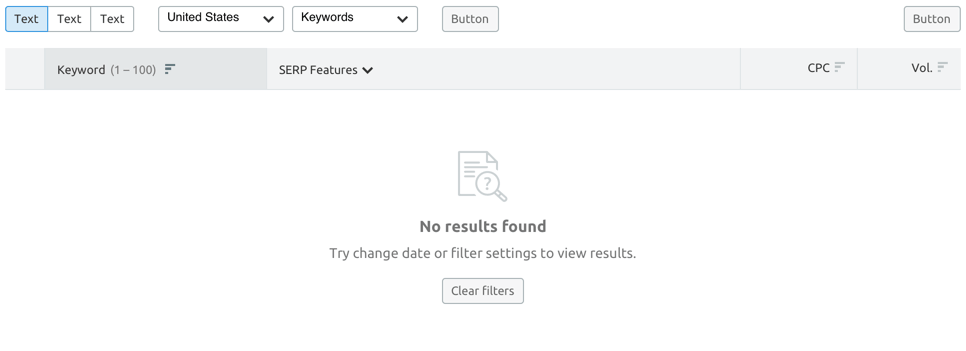
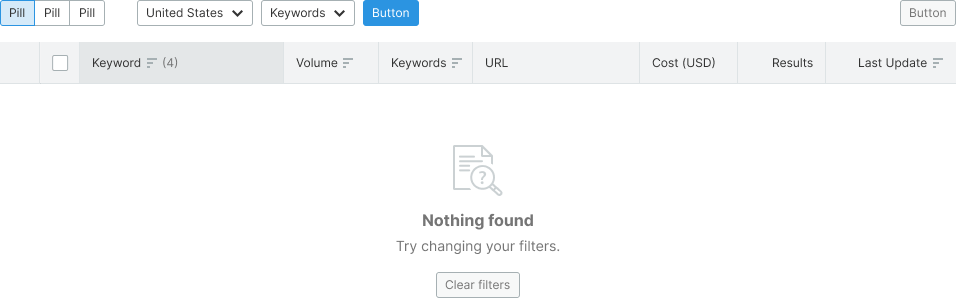
[WidgetEmpty, Table states] Update message for Nothing found state

diff --git a/website/docs/components/widget-empty/examples/no-data.js b/website/docs/components/widget-empty/examples/no-data.js
@@ -111,7 +111,7 @@ export default () => {
         </Card>
         <Card my={5} pt={4}>
           <Text size={400}>Nothing found</Text>
-          <NoData type="nothing-found" />
+          <NoData type="nothing-found" description="Try changing your filters." />
         </Card>
         <Card my={5} pt={4}>
           <Text size={400}>Processing</Text>

diff --git a/website/docs/components/widget-empty/widget-empty.md b/website/docs/components/widget-empty/widget-empty.md
@@ -57,9 +57,9 @@ The list of “empty” states in the widgets:
 - Tool is not set up
 - Something went wrong
 
-@## Nothing found
+@## No data
 
-We use this state, when for some reason we do not have data at the user request or cannot show it. If the widget has a heading, it should be displayed in this state. In this case we show the following instead of the data:
+We use this state, when for some reason we do not have data or cannot show it. If the widget has a heading, it should be displayed in this state. In this case show the following instead of the data:
 
 - an image corresponding to the type of the data in the widget;
 - a text message specifying that we have no data or specifying the user’s actions in order to obtain it;
@@ -78,6 +78,22 @@ We have a certain image for each type of data. The button is an optional element
 If your widget has width of less than 300px, you may just insert the heading of the error as the text of `--fs-100` size into such “empty” state: `12px; --lh-100: 1.5;` (12px). And hide the explanatory information into the icon `Info` of S size.
 
 ![small widget empty](static/small-empty.png)
+
+@## Nothing found
+
+It's a specific variant for cases when we do not have data at the user request. In this case show the following instead of the data:
+
+- an universal image;
+- a text message specifying that we do not have data at the user request;
+- the main button helping the users to remedy the situation (optional);
+
+| Wide widget                                              | Medium widget                                                  | Text                                               |
+| -------------------------------------------------------- | -------------------------------------------------------------- | -------------------------------------------------- |
+| ![big widget with nothing found](static/big-nothing.png) | ![medium widget with nothing found](static/medium-nothing.png) | h6 — Nothing found; p — Try changing your filters. |
+
+If your widget has width of less than 300px, you may just insert the heading of the error as the text of `--fs-100` size into such “empty” state: `12px; --lh-100: 1.5;` (12px). And hide the explanatory information into the icon `Info` of S size.
+
+![small widget with nothing found](static/small-nothing.png)
 
 @## No more results
 

diff --git a/website/docs/components/widget-empty/widget-empty-code.md b/website/docs/components/widget-empty/widget-empty-code.md
@@ -2,7 +2,7 @@
 title: Example
 ---
 
-@## NoData use example
+@## NoData example
 
 The template already has the heading, you should only transfer the data type and description.
 
@@ -10,13 +10,13 @@ The template already has the heading, you should only transfer the data type and
 
 @example no-data
 
-@## Error use example
+@## Error example
 
 The template already has the heading and the image, you should only transfer the description and additional elements.
 
 @example error
 
-@## Setup Tool use example
+@## Setup Tool example
 
 There is a possibility to accumulate the custom errors. For example, the error of the necessity to set up the tool — [Set up your tool](/components/widget-empty/#a48572). To obtain the link to the image use the function `getIconPath` from the package.
 
